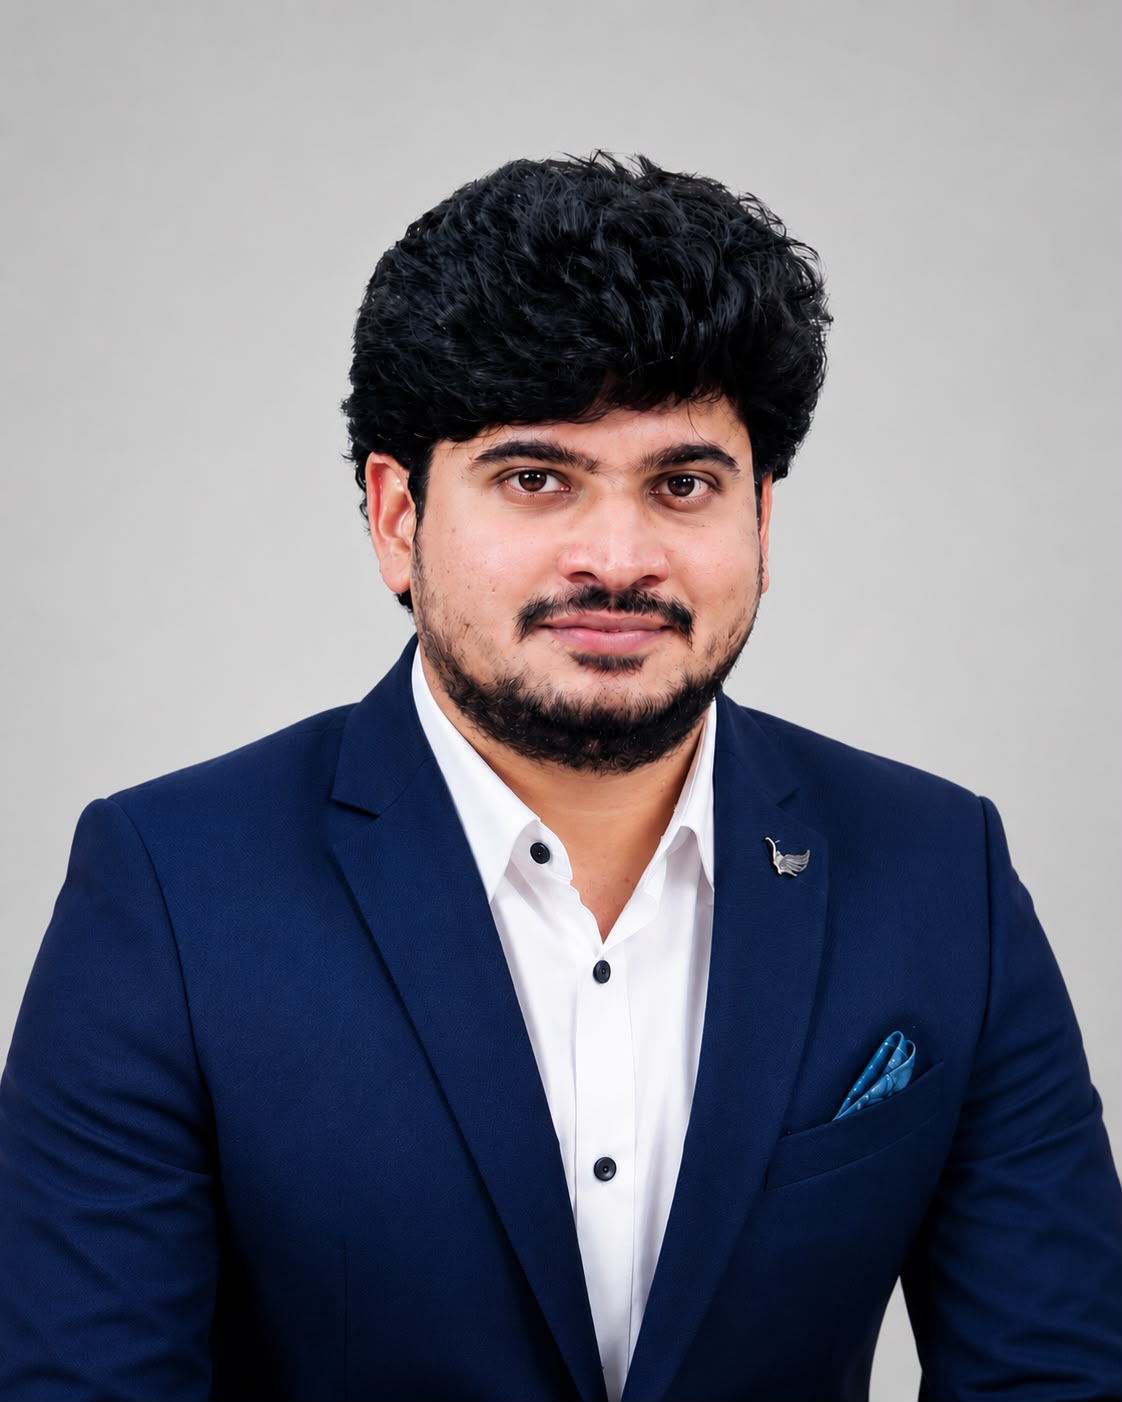
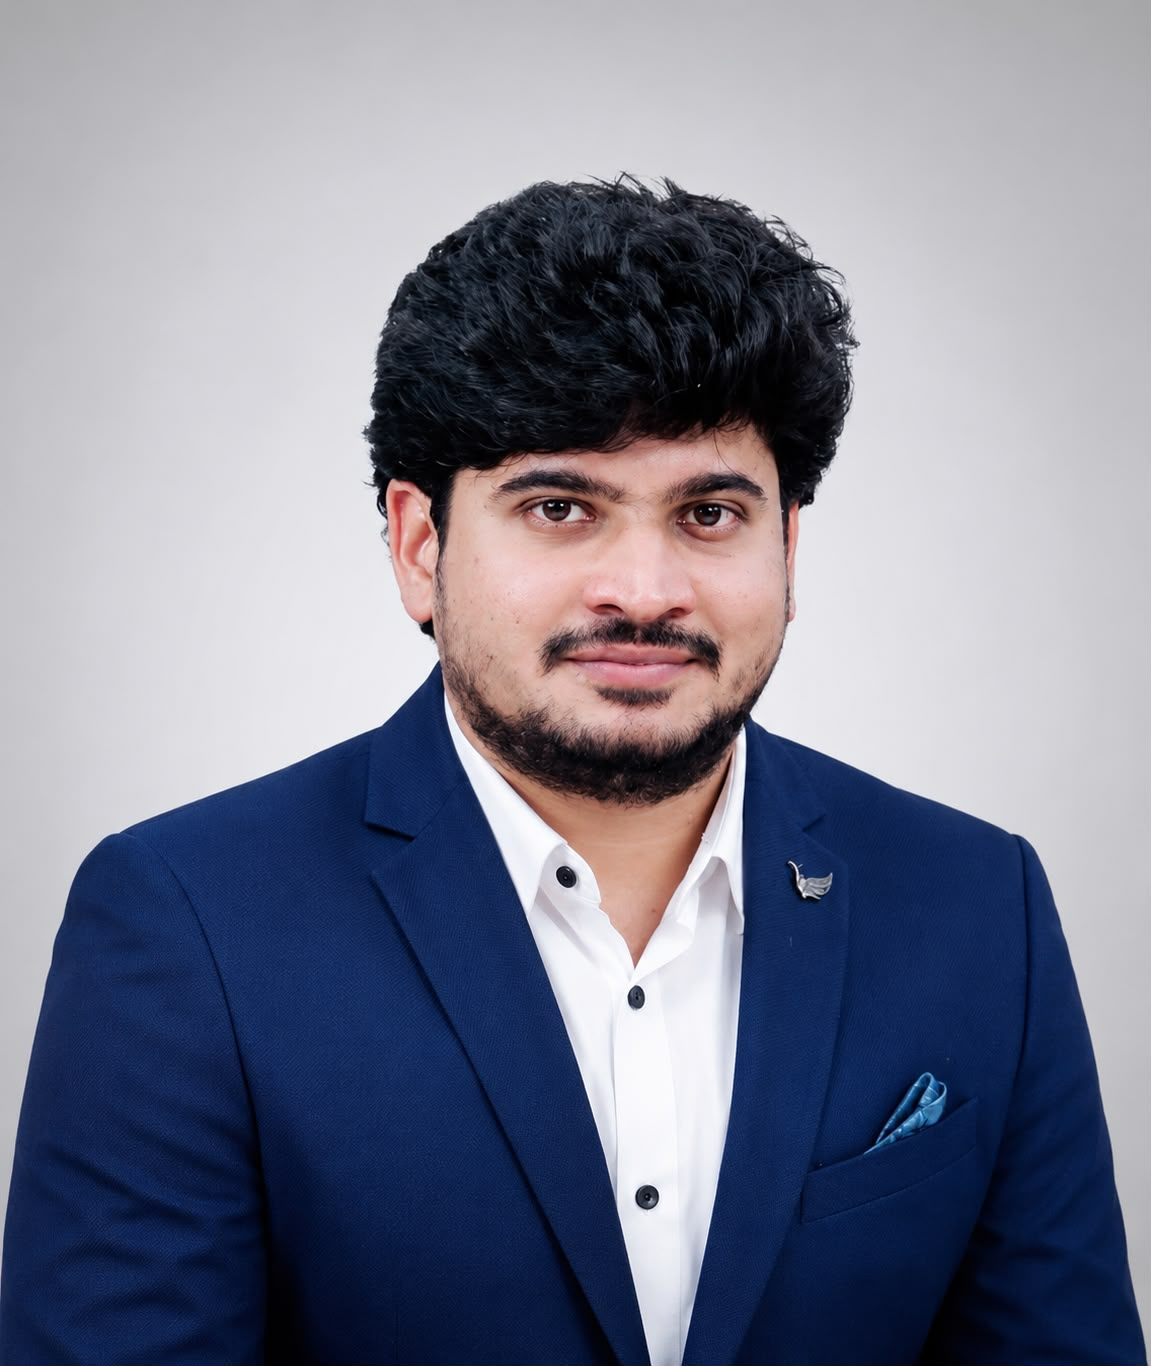
Update founder profile: new photo, remove MRCEM, classic modal redesign
- Replace founder profile photo with updated portrait
- Remove MRCEM from all occurrences (bio, chips, modal data, Dr. Hari Kishore profile)
- Redesign founder modal: dark navy photo panel, gold accent bar, decorative quote marks, gold divider, brand watermark
- Widen modal to 1100px with 46% photo panel for better portrait display
- Switch founder image to headshot mode to show full picture without cropping

diff --git a/index.html b/index.html
@@ -3277,10 +3277,10 @@
     }
     .leader-overlay.lm-open { opacity: 1; pointer-events: all; }
     .leader-modal {
-      background: #fff; border-radius: 24px;
-      max-width: 940px; width: 100%; max-height: 90vh;
+      background: #fff; border-radius: 16px;
+      max-width: 1100px; width: 100%; max-height: 90vh;
       overflow: hidden; position: relative;
-      box-shadow: 0 50px 130px rgba(4,17,31,.48), 0 8px 40px rgba(4,17,31,.2);
+      box-shadow: 0 60px 140px rgba(4,17,31,.55), 0 8px 40px rgba(4,17,31,.22);
       display: flex; flex-direction: row;
       transform: translateY(44px) scale(.94);
       transition: transform .48s cubic-bezier(.16,1,.3,1);
@@ -3289,12 +3289,35 @@
 
     /* Photo panel */
     .lm-photo-wrap {
-      position: relative; flex: 0 0 40%; min-height: 100%;
+      position: relative; flex: 0 0 46%; min-height: 100%;
       overflow: hidden;
-      background-color: #e8edf4;
+      background: linear-gradient(180deg, #0d1f38 0%, #04111f 100%);
     }
-    /* Headshot mode — same neutral bg */
-    .lm-photo-wrap.mode-headshot { background-color: #e8edf4; }
+    /* Headshot mode — same dark bg */
+    .lm-photo-wrap.mode-headshot {
+      background: linear-gradient(180deg, #0d1f38 0%, #04111f 100%);
+    }
+    /* Bottom gradient fade — blends photo into dark navy */
+    .lm-photo-wrap::after {
+      content: ''; position: absolute;
+      bottom: 0; left: 0; right: 0; height: 38%;
+      background: linear-gradient(to bottom, transparent 0%, #04111f 100%);
+      pointer-events: none; z-index: 1;
+    }
+    /* Brand watermark at bottom of photo panel */
+    .lm-photo-brand {
+      position: absolute; bottom: 24px; left: 0; right: 0;
+      display: flex; align-items: center; justify-content: center;
+      gap: 8px; z-index: 2; pointer-events: none;
+    }
+    .lm-photo-brand-line {
+      height: 1px; width: 36px;
+      background: rgba(255,255,255,.2);
+    }
+    .lm-photo-brand-text {
+      font-family: var(--font-label); font-size: 8px; letter-spacing: 3px;
+      text-transform: uppercase; color: rgba(255,255,255,.28); font-weight: 700;
+    }
 
     /* Portrait image — fills the panel */
     .lm-photo {
@@ -3308,7 +3331,6 @@
       object-fit: contain;
       object-position: center top;
     }
-    /* Remove dark fade and specialty label — clean look matching doctor modals */
     .lm-photo-fade { display: none; }
     .lm-photo-label { display: none; }
     .lm-photo-label-eyebrow {
@@ -3348,7 +3370,8 @@
       flex: 1; overflow-y: auto; padding: 46px 50px 46px;
       display: flex; flex-direction: column;
       position: relative;
-      background: #f7f9fc;
+      background: #ffffff;
+      border-left: 4px solid #c9a84c;
       opacity: 0;
       transition: opacity .34s ease .18s;
       scrollbar-width: thin; scrollbar-color: rgba(21,101,200,.2) transparent;
@@ -3368,17 +3391,21 @@
 
     /* Header block */
     .lm-tag {
-      display: inline-block; font-family: var(--font-label); font-size: 7.5px;
-      font-weight: 700; letter-spacing: 3px; text-transform: uppercase;
-      color: #e02828; margin-bottom: 10px;
+      display: inline-flex; align-items: center; gap: 8px;
+      font-family: var(--font-label); font-size: 8px;
+      font-weight: 700; letter-spacing: 4px; text-transform: uppercase;
+      color: #b8922a; margin-bottom: 12px;
+    }
+    .lm-tag::before, .lm-tag::after {
+      content: ''; display: block; width: 20px; height: 1px; background: #c9a84c; opacity: .6;
     }
     .lm-name {
-      font-family: var(--font-head); font-size: 38px; letter-spacing: 2.5px;
-      color: #04111f; line-height: 1; margin-bottom: 14px;
+      font-family: var(--font-head); font-size: 40px; letter-spacing: 2.5px;
+      color: #04111f; line-height: 1; margin-bottom: 16px;
     }
     .lm-specialty {
-      font-family: var(--font-body); font-size: 16px; font-weight: 600;
-      color: #1565c8; letter-spacing: .2px; margin-bottom: 5px;
+      font-family: var(--font-body); font-size: 15px; font-weight: 600;
+      color: #1a4a8a; letter-spacing: .2px; margin-bottom: 5px;
     }
     .lm-role {
       font-family: var(--font-body); font-size: 12px; font-weight: 400;
@@ -3386,31 +3413,42 @@
     }
     .lm-divider {
       width: 100%; height: 1px; margin: 26px 0;
-      background: linear-gradient(90deg,rgba(21,101,200,.45) 0%,rgba(21,101,200,.12) 55%,transparent 100%);
+      background: linear-gradient(90deg, rgba(201,168,76,.7) 0%, rgba(201,168,76,.2) 55%, transparent 100%);
     }
 
     /* Pull quote card */
     .lm-quote-block {
-      background: #F8FAFC; border-left: 5px solid #1565c8;
-      border-radius: 0 12px 12px 0; padding: 22px 28px; margin-bottom: 36px;
-      box-shadow: 0 2px 22px rgba(21,101,200,.08), inset 0 0 0 1px rgba(21,101,200,.07);
+      background: #fafaf7; border-left: 4px solid #04111f;
+      border-radius: 0 10px 10px 0; padding: 28px 32px 22px; margin-bottom: 36px;
+      box-shadow: 0 2px 22px rgba(4,17,31,.06);
+      position: relative;
+    }
+    .lm-quote-block::before {
+      content: '\201C';
+      font-family: Georgia, 'Times New Roman', serif;
+      font-size: 96px; line-height: .8;
+      color: rgba(201,168,76,.18);
+      position: absolute; top: 12px; left: 14px;
+      pointer-events: none;
     }
     .lm-quote-text {
-      font-family: var(--font-body); font-size: 16px; font-style: italic;
-      line-height: 1.8; color: #0d2952; font-weight: 400; margin: 0;
+      font-family: var(--font-body); font-size: 15.5px; font-style: italic;
+      line-height: 1.85; color: #1a2a4a; font-weight: 400; margin: 0;
+      position: relative;
     }
 
     /* Sectioned biography */
     .lm-section { margin-bottom: 32px; }
     .lm-section-label {
       display: flex; align-items: center; gap: 14px;
-      font-family: var(--font-label); font-size: 11px;
-      font-weight: 700; letter-spacing: 2px; text-transform: uppercase;
-      color: #2563EB; margin-bottom: 16px; opacity: 1;
+      font-family: var(--font-label); font-size: 10px;
+      font-weight: 700; letter-spacing: 3px; text-transform: uppercase;
+      color: #04111f; margin-bottom: 16px; opacity: 1;
     }
     .lm-section-label::before {
-      content: ''; display: block; width: 40px; height: 2px;
-      background: #2563EB; flex-shrink: 0; border-radius: 2px;
+      content: ''; display: block; width: 40px; height: 1px;
+      background: linear-gradient(90deg, #c9a84c, rgba(201,168,76,.3));
+      flex-shrink: 0;
     }
     .lm-bio {
       font-family: var(--font-body); font-size: 15px; line-height: 1.85;
@@ -4388,11 +4426,11 @@
               <span class="leader-tag">Founder</span>
               <div class="leader-name">Dr. Neel Rohith Reddy</div>
               <div class="leader-role">Founder &amp; Medical Director</div>
-              <p class="leader-bio">MBBS, FEM (RLA-UK), MEM (SEMI), MRCEM · Fellowship in Aviation Medicine (UK) · Prehospital Emergency Consultant &amp; Aeromedical Intensivist with over a decade of critical care transport experience across India and internationally.</p>
+              <p class="leader-bio">MBBS, FEM (RLA-UK), MEM (SEMI) · Fellowship in Aviation Medicine (UK) · Prehospital Emergency Consultant &amp; Aeromedical Intensivist with over a decade of critical care transport experience across India and internationally.</p>
               <div class="leader-creds">
                 <span class="leader-chip leader-chip-cert">FEM · RLA-UK</span>
                 <span class="leader-chip">MEM · SEMI</span>
-                <span class="leader-chip">MRCEM</span>
+
                 <span class="leader-chip">Aviation Medicine</span>
                 <span class="leader-chip">Aeromedical Intensivist</span>
               </div>
@@ -4454,6 +4492,11 @@
           <div class="lm-photo-label">
             <span class="lm-photo-label-eyebrow">Medical Specialty</span>
             <span class="lm-photo-specialty-text" id="lm-photo-specialty"></span>
+          </div>
+          <div class="lm-photo-brand">
+            <span class="lm-photo-brand-line"></span>
+            <span class="lm-photo-brand-text">REACT Air Ambulance</span>
+            <span class="lm-photo-brand-line"></span>
           </div>
         </div>
 
@@ -4550,7 +4593,7 @@
               <p class="team-bio">Emergency Physician with 13+ years of experience in trauma care, ACLS, advanced airway management, POCUS, and aeromedical retrieval across high-acuity emergency settings.</p>
               <div class="team-skills">
                 <span class="team-skill team-cert">MBBS</span>
-                <span class="team-skill team-cert">MRCEM</span>
+
                 <span class="team-skill">ACLS</span>
                 <span class="team-skill">POCUS</span>
                 <span class="team-skill">Aeromedical Retrieval</span>
@@ -7154,18 +7197,18 @@
       neel: {
         tag: 'Founder',
         name: 'Dr. Neel Rohith Reddy',
-        specialty: 'MBBS, FEM (RLA-UK), MEM (SEMI), MRCEM · Fellowship in Aviation Medicine (UK)',
+        specialty: 'MBBS, FEM (RLA-UK), MEM (SEMI) · Fellowship in Aviation Medicine (UK)',
         role: 'Prehospital Emergency Consultant & Aeromedical Intensivist · Founder & Medical Director, REACT',
         initials: 'NR',
-        photo: 'dr-founder.jpg', imageMode: 'portrait', photoPos: 'center top',
+        photo: 'dr-founder.jpg', imageMode: 'headshot', photoPos: 'center top',
         quote: 'Every mission we undertake is guided by compassion, clinical excellence, and an unwavering commitment to patient safety — because we treat every patient with the same care we would want for our own loved ones.',
         sections: ['Founder\'s Note', 'Our Promise'],
         bios: [
           'As an Emergency Physician, I have had the privilege of caring for patients and supporting families during some of the most difficult moments of their lives. Through my experience in aeromedical transport and critical care transfers, I have witnessed how crucial timely access to the right medical care can be — and how overwhelming it is for families when a loved one needs urgent transportation.\n\nREACT was founded with a simple purpose: to bridge this gap by providing safe, dependable, and medically coordinated patient transportation services. We believe that families deserve more than just a transfer service — they deserve reassurance, clear communication, and a team they can trust during life\'s most critical moments.',
           'Every mission we undertake is guided by compassion, clinical excellence, and an unwavering commitment to patient safety. We treat every patient with the same dignity, respect, and care that we would want for our own loved ones. When every second counts, we REACT.'
         ],
-        sigCred: 'MBBS · FEM (RLA-UK) · MEM (SEMI) · MRCEM · Fellowship in Aviation Medicine (UK)',
-        creds: ['Prehospital Emergency Medicine','Aeromedical Intensivist','Fellowship Aviation Medicine','FEM · RLA-UK','MEM · SEMI','MRCEM','Critical Care Transport','Retrieval Medicine']
+        sigCred: 'MBBS · FEM (RLA-UK) · MEM (SEMI) · Fellowship in Aviation Medicine (UK)',
+        creds: ['Prehospital Emergency Medicine','Aeromedical Intensivist','Fellowship Aviation Medicine','FEM · RLA-UK','MEM · SEMI','Critical Care Transport','Retrieval Medicine']
       },
       lavanya: {
         tag: 'Co-Founder',
@@ -8136,8 +8179,8 @@
           location: 'Nassau, Bahamas Islands 🇧🇸',
           initials: 'HK',
           photo: 'dr-harikishor.jpg', photoPos: 'center 18%', imageMode: 'portrait',
-          bio: 'Dr. Hari Kishore, MBBS, MRCEM, is a dedicated Emergency Physician with more than 13 years of experience in providing comprehensive emergency and critical care services. He has extensive experience in the assessment, stabilization, and management of critically ill and injured patients presenting with complex medical, surgical, and trauma-related emergencies.\n\nHis clinical practice encompasses trauma care, Advanced Cardiac Life Support (ACLS), advanced airway management, mechanical ventilation, point-of-care ultrasound (POCUS), procedural sedation, hemodynamic stabilization, and the management of patients in shock. He is also skilled in the retrieval and safe transfer of critically ill patients through ground and aeromedical transport, ensuring continuity of care throughout the transfer process.\n\nDr. Hari Kishore believes in delivering prompt, evidence-based, and patient-centered emergency care. His commitment to clinical excellence, teamwork, and patient safety enables him to provide high-quality care in fast-paced high-acuity emergency settings while maintaining the highest professional standards.',
-          certs: ['MBBS', 'MRCEM'],
+          bio: 'Dr. Hari Kishore, MBBS, is a dedicated Emergency Physician with more than 13 years of experience in providing comprehensive emergency and critical care services. He has extensive experience in the assessment, stabilization, and management of critically ill and injured patients presenting with complex medical, surgical, and trauma-related emergencies.\n\nHis clinical practice encompasses trauma care, Advanced Cardiac Life Support (ACLS), advanced airway management, mechanical ventilation, point-of-care ultrasound (POCUS), procedural sedation, hemodynamic stabilization, and the management of patients in shock. He is also skilled in the retrieval and safe transfer of critically ill patients through ground and aeromedical transport, ensuring continuity of care throughout the transfer process.\n\nDr. Hari Kishore believes in delivering prompt, evidence-based, and patient-centered emergency care. His commitment to clinical excellence, teamwork, and patient safety enables him to provide high-quality care in fast-paced high-acuity emergency settings while maintaining the highest professional standards.',
+          certs: ['MBBS'],
           skills: ['Emergency Medicine','Trauma Care','Advanced Cardiac Life Support (ACLS)','Advanced Airway Management','Mechanical Ventilation','Point-of-Care Ultrasound (POCUS)','Procedural Sedation','Hemodynamic Stabilization','Shock Management','Ground & Aeromedical Retrieval','Critical Care Transport']
         },
         ashok: {
